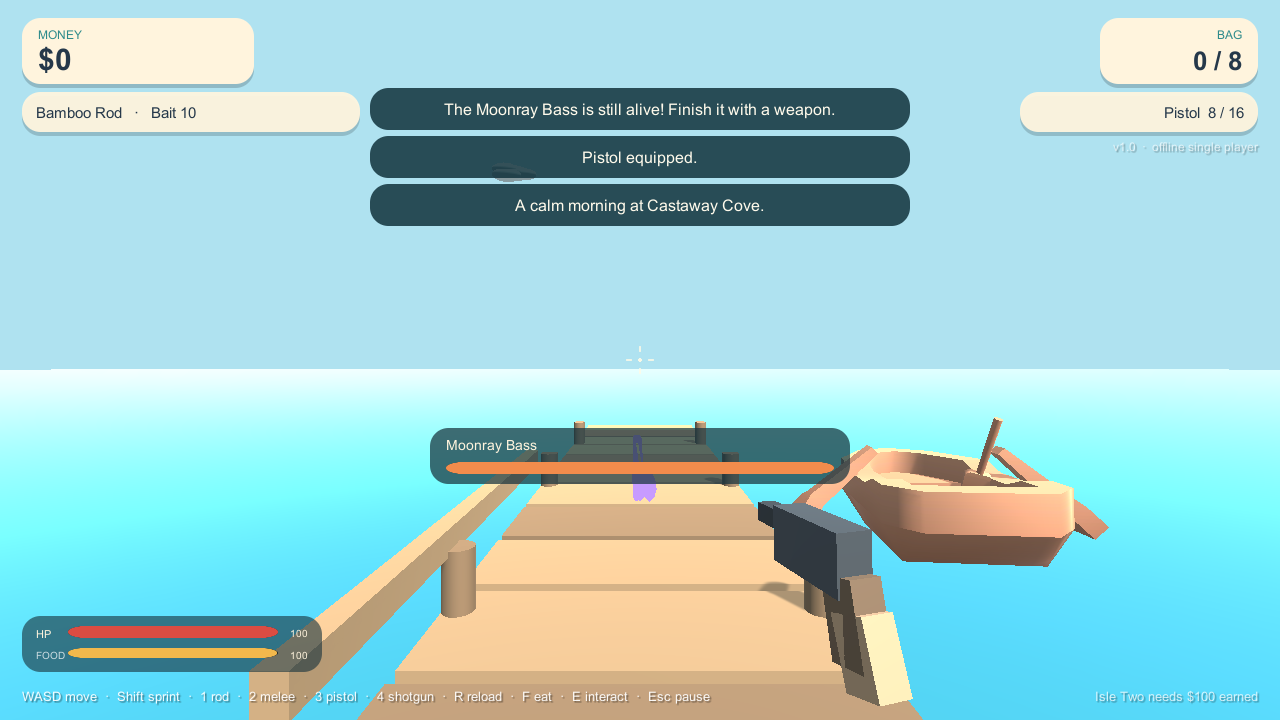
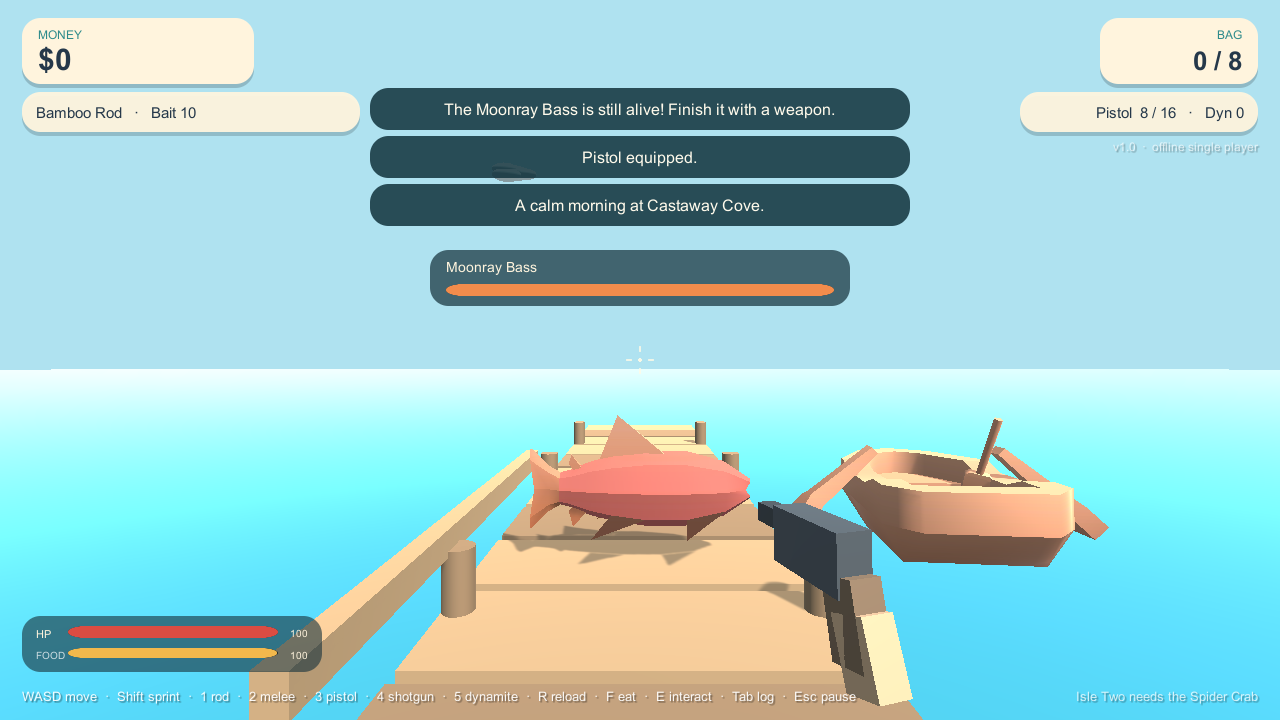
Fix landed fish visuals and move the target bar

diff --git a/Assets/Scripts/Combat/FishEnemy.cs b/Assets/Scripts/Combat/FishEnemy.cs
@@ -55,39 +55,12 @@ namespace Cove
 
         private void BuildVisual()
         {
-            string model = "Fish1_display";
-            switch (Fish.species)
+            Color tint = Color.white;
+            if (!string.IsNullOrEmpty(Fish.color)) ColorUtility.TryParseHtmlString(Fish.color, out tint);
+            string model = Fish.weight > 5f ? "fish-large" : "fish";
+            var go = CC0Library.SpawnLocal(model, transform, Vector3.zero, 0f, Mathf.Clamp(0.8f + Fish.weight * 0.04f, 0.8f, 1.5f), CCFit.Height, true, tint);
+            if (go != null)
             {
-                case "Coral Perch":
-                case "Lagoon Snapper":
-                case "Amber Tang":
-                case "Moonray Bass":
-                    model = "Fish2_display";
-                    break;
-                case "Stormback Eel":
-                case "Golden Leviathan":
-                    model = "Fish3_display";
-                    break;
-            }
-            var prefab = CC0Library.Prefab(model);
-            if (prefab == null) prefab = CC0Library.Prefab("Fish1_display");
-            if (prefab != null)
-            {
-                var go = Instantiate(prefab, transform, false);
-                go.name = "Fish Visual";
-                go.transform.localPosition = Vector3.zero;
-                go.transform.localRotation = Quaternion.identity;
-                go.transform.localScale = Vector3.one;
-                Bounds b = CC0Library.LocalBounds(go, transform);
-                float target = Mathf.Clamp(0.55f + Fish.weight * 0.035f, 0.55f, 1.1f);
-                float scale = b.size.y > 0.001f ? target / b.size.y : 1f;
-                go.transform.localScale = Vector3.one * scale;
-                Vector3 p = go.transform.localPosition;
-                p.y = -b.min.y * scale + 0.14f;
-                go.transform.localPosition = p;
-                Color tint = Color.white;
-                if (!string.IsNullOrEmpty(Fish.color)) ColorUtility.TryParseHtmlString(Fish.color, out tint);
-                CC0Library.Tint(go, tint);
                 visual = go.transform;
             }
             else
@@ -95,11 +68,15 @@ namespace Cove
                 var body = GameObject.CreatePrimitive(PrimitiveType.Sphere);
                 Destroy(body.GetComponent<Collider>());
                 body.transform.SetParent(transform, false);
-                body.transform.localPosition = new Vector3(0f, 0.2f, 0f);
-                body.transform.localScale = new Vector3(0.32f, 0.42f, 0.7f);
-                Color tint = Color.white;
-                if (!string.IsNullOrEmpty(Fish.color)) ColorUtility.TryParseHtmlString(Fish.color, out tint);
+                body.transform.localPosition = new Vector3(0f, 0.28f, 0f);
+                body.transform.localScale = new Vector3(0.35f, 0.48f, 0.8f);
                 body.GetComponent<MeshRenderer>().sharedMaterial = WorldBuilder.MakeMat("fishBody", tint, 0.4f);
+                var tail = GameObject.CreatePrimitive(PrimitiveType.Cube);
+                Destroy(tail.GetComponent<Collider>());
+                tail.transform.SetParent(transform, false);
+                tail.transform.localPosition = new Vector3(0f, 0.28f, -0.5f);
+                tail.transform.localScale = new Vector3(0.06f, 0.32f, 0.3f);
+                tail.GetComponent<MeshRenderer>().sharedMaterial = WorldBuilder.MakeMat("fishTail", tint, 0.4f);
                 visual = body.transform;
             }
 

diff --git a/Assets/Scripts/UI/UIManager.cs b/Assets/Scripts/UI/UIManager.cs
@@ -301,7 +301,7 @@ namespace Cove
             Crosshair = cross;
             Crosshair.SetActive(false);
 
-            var target = MakePanel(root, "Target Panel", new Color(0.09f, 0.2f, 0.24f, 0.72f), new Vector2(0.5f, 0.5f), new Vector2(0.5f, 0.5f), new Vector2(0f, -96f), new Vector2(420f, 56f));
+            var target = MakePanel(root, "Target Panel", new Color(0.09f, 0.2f, 0.24f, 0.72f), new Vector2(0.5f, 1f), new Vector2(0.5f, 1f), new Vector2(0f, -250f), new Vector2(420f, 56f));
             TargetPanel = target.gameObject;
             TargetNameText = MakeText(target, "", 14, Palette.Cream, TextAnchor.MiddleLeft, false, new Vector2(0f, 1f), new Vector2(0f, 1f), new Vector2(16f, -8f), new Vector2(388f, 18f));
             var targetBack = MakePanel(target, "Target Track", new Color(0.02f, 0.06f, 0.08f, 0.7f), new Vector2(0f, 0f), new Vector2(0f, 0f), new Vector2(16f, 10f), new Vector2(388f, 12f));

diff --git a/CREDITS.md b/CREDITS.md
@@ -19,7 +19,8 @@ rocks-sand-b and patch-sand. Textures: the matching `Textures/colormap.png` besi
 ## Kenney — Survival Kit 2.0
 Created/distributed by Kenney (kenney.nl). License: CC0 1.0.
 Used for: workbench (shop counter), bucket, campfire-fishing-stand, resource-planks,
-signpost-single (quest board), and fish / fish-large (static trophies). Textures: the matching
+signpost-single (quest board), and fish / fish-large (landed catch visuals and shop trophies).
+Textures: the matching
 `Textures/colormap.png` beside the models.
 
 ## Kenney — Mini Characters 1.0
@@ -29,10 +30,10 @@ Textures: the matching `Textures/colormap.png` beside the models.
 
 ## Quaternius — Animated Fish Pack
 Created/distributed by Quaternius (quaternius.com). License: CC0 1.0.
-Used for: Fish1, Fish2 and Fish3 held/catch fish models, mapped across the eight species with
-per-species scale and colour variants. The Swim clips import with the models; the held-fish
-display uses a baked Swim pose so it renders reliably at hold size. Shark is imported for
-completeness but is not part of the catch table.
+Used for: Fish1, Fish2 and Fish3 display poses for the held-fish preview and the Giant Piranha;
+Shark for the Bowhead Whale boss. The Swim clips import with the models; the held-fish display
+uses a baked Swim pose so it renders reliably at hold size. The landed/attacking catch uses the
+Kenney survival fish for a reliable low-poly silhouette.
 
 ## Notes
 All models are imported with Unity's native FBX importer at scale 1 and standard material/texture
